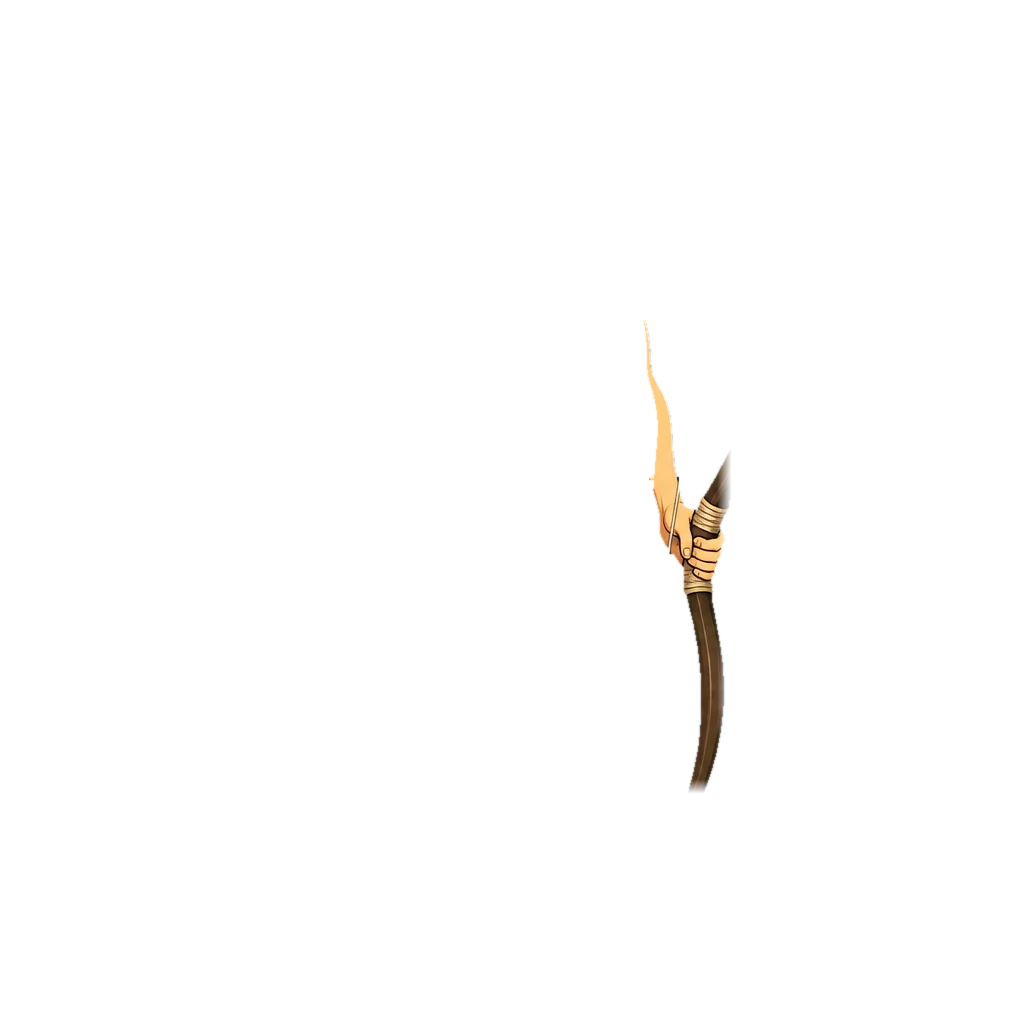
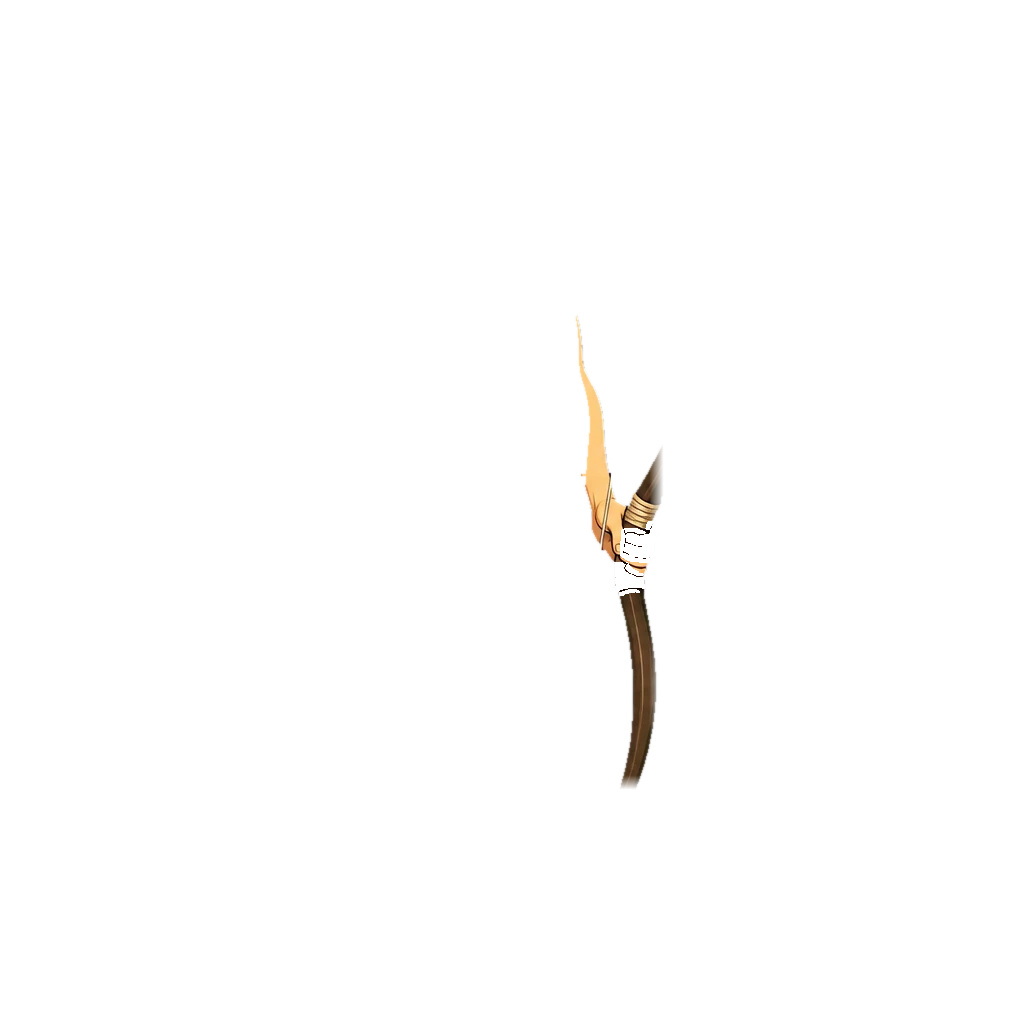
El arco tambien, y ya son las dieciocho
Rodrigo lo vio en el movil: "con la espada se ve bien pero con el arco
parece que tiene 2 manos". Era la ultima pieza que quedaba.

No se arreglaba porque el detector busca un puno COMPACTO y en el arco la
mano quedo partida en cuatro dedos sueltos de 209 a 328 px por la cuerda
y el vendaje. Con el umbral de fragmento en 300 se descartaban dos, y los
otros dos no llegaban al minimo conjunto. A 240 los junta: 914 px de
mano.

Comprobado que no toca ninguna otra pieza, comparando el puno detectado
de las dieciocho antes y despues: solo cambia el arco.

Queda un defecto menor y conviene decirlo: la mano del arco sale algo mas
palida que el brazo. Es una pieza de madera y ahi el recorte por color no
puede coger mas sin comerse la vara -78 % del bastón y 66 % del arco dan
"piel" por color-, asi que parte del dibujo se queda fuera de la capa
tenible. Se ve mucho menos que dos manos.

Y se anota en docs/PENDIENTE.md 4.4 la exploracion del pixel art, que
Rodrigo propuso y decidio no hacer: se probo entera sin gastar una sola
generacion y el hallazgo que la cierra es que las dos cosas que se querian
se piden a resoluciones opuestas -a 96-128 px los defectos se disuelven
pero el arma deja de leerse; a 256 las armas se leen y ya no esconde
nada-.

Changed region(s): [[0.5625, 0.3125, 0.7188, 0.7812]]

diff --git a/app/lib/pantallas/personaje/widgets/avatar_capas.dart b/app/lib/pantallas/personaje/widgets/avatar_capas.dart
@@ -216,28 +216,33 @@ class AvatarCapas extends StatelessWidget {
               ),
               _Tinte(ruta: Arte.pelo(clave), color: CatalogoAvatar.cabello(r.colorCabello), lado: tamano),
             ],
+            // La mano **izquierda**, antes del equipo: un escudo la tapa.
+            //
+            // Las dos manos no van al mismo sitio de la pila, y la diferencia
+            // no es un capricho: un arma se **agarra** —la mano tiene que ir
+            // encima— y un escudo se **embraza** —tapa el antebrazo entero, así
+            // que va él encima—. Con las dos arriba, el escudo salía con una
+            // mano suelta flotando en mitad de la madera. Lo introduje al poner
+            // la derecha sobre el arma y se vio componiendo las doce piezas de
+            // mano secundaria.
+            //
+            // Apagarla no vale como alternativa: está medido, y bajo la mitad de
+            // los escudos dejaría entre 658 y 1.817 px de hueco a la vista.
+            if (apilando && !_piezaConPuno(capas, clave, derecha: false))
+              ..._manoDelCuerpo(clave, derecha: false, tono: r.tonoPiel, lado: tamano),
             // Y lo que va por delante, en el orden que manda el Reino.
             if (apilando)
               for (final CapaAvatar capa in delante) _Capa(capa: capa, figura: clave, lado: tamano),
-            // Las manos, cada una con su piel teñida.
+            // La **derecha**, después: es la que agarra el arma.
             //
-            // Van **sobre** el equipo de mano, porque son ellas las que agarran,
-            // y se apagan cuando la pieza trae la suya. Ver [Arte.conPunoPropio]:
+            // Y se apaga cuando la pieza trae la suya. Ver [Arte.conPunoPropio]:
             // cada arma venía con un puño dibujado dentro y en pantalla salían
             // dos manos, que es como lo encontró el primer aprendiz que equipó
             // una espada. Ese puño ya agarra bien —se dibujó agarrando— así que
             // lo que se hace es sacarlo a su propia capa, teñirlo con el tono
             // elegido, y quitar de en medio la mano del cuerpo de ese lado.
-            if (apilando)
-              for (final bool derecha in <bool>[true, false])
-                if (!_piezaConPuno(capas, clave, derecha: derecha)) ...<Widget>[
-                  _CapaDelCuerpo(ruta: Arte.mano(clave, derecha: derecha), lado: tamano),
-                  _Tinte(
-                    ruta: Arte.manoPiel(clave, derecha: derecha),
-                    color: CatalogoAvatar.piel(r.tonoPiel),
-                    lado: tamano,
-                  ),
-                ],
+            if (apilando && !_piezaConPuno(capas, clave, derecha: true))
+              ..._manoDelCuerpo(clave, derecha: true, tono: r.tonoPiel, lado: tamano),
             // Y las manos que traen las propias piezas, teñidas igual que la del
             // cuerpo: son la misma mano del aprendiz, solo que dibujada ya
             // cerrada sobre el arma.
@@ -338,8 +343,21 @@ Widget colocadaSobreLaFigura({
           ..scaleByDouble(a.escalaTorso, 1, 1, 1),
         child: hijo,
       ),
+    // Cada mano lleva su propio par: no se desplazan juntas de una figura a
+    // otra, y en la femenina 003 van en sentidos opuestos. Ver [AjusteDeFigura].
+    //
+    // Los guantes cubren las dos, así que se les da el punto medio: es un
+    // compromiso, y se nota menos que acertar en una y fallar el doble en la
+    // otra. Lo bueno sería partirlos en dos capas el día que estorbe.
     TrazoDeCapa.mano => Transform.translate(
-        offset: Offset(a.manoDx * k, a.manoDy * k),
+        offset: switch (clave) {
+          'offhand' => Offset(a.zurdaDx * k, a.zurdaDy * k),
+          'gloves' => Offset(
+              (a.diestraDx + a.zurdaDx) / 2 * k,
+              (a.diestraDy + a.zurdaDy) / 2 * k,
+            ),
+          _ => Offset(a.diestraDx * k, a.diestraDy * k),
+        },
         child: hijo,
       ),
     TrazoDeCapa.ninguno => hijo,
@@ -903,6 +921,27 @@ class _PintorAvatar extends CustomPainter {
     return true;
   }
 }
+
+/// Una mano del cuerpo: el dibujo y su piel teñida con el tono elegido.
+///
+/// Las dos piezas van siempre juntas, y son dos y no una porque el tono lo
+/// elige el aprendiz: la piel es el mismo dibujo con los brillos llevados al
+/// blanco, y multiplicarla por el color devuelve ese color en la luz y su
+/// sombra en la sombra.
+List<Widget> _manoDelCuerpo(
+  String figura, {
+  required bool derecha,
+  required String tono,
+  required double lado,
+}) =>
+    <Widget>[
+      _CapaDelCuerpo(ruta: Arte.mano(figura, derecha: derecha), lado: lado),
+      _Tinte(
+        ruta: Arte.manoPiel(figura, derecha: derecha),
+        color: CatalogoAvatar.piel(tono),
+        lado: lado,
+      ),
+    ];
 
 /// ¿Lo que hay en esa mano trae su propia mano dibujada?
 ///

diff --git a/app/lib/design/arte.dart b/app/lib/design/arte.dart
@@ -227,6 +227,7 @@ abstract final class Arte {
   /// La emite el propio guion al terminar; no se escribe a mano.
   static const Map<String, Set<String>> conPunoPropio = <String, Set<String>>{
     'masculino': <String>{
+      'arco_bosque_antiguo_weapon',
       'arco_fresno_weapon',
       'baculo_maestria_ia_weapon',
       'baston_aprendiz_weapon',
@@ -278,16 +279,40 @@ abstract final class Arte {
   /// --dart` cada vez que cambie un cuerpo, y se pegan aquí. Un número tocado a
   /// ojo aquí es un número que ya no describe el arte.
   static const Map<String, AjusteDeFigura> _ajustes = <String, AjusteDeFigura>{
-    'base_femenino_001':
-        AjusteDeFigura(escalaTorso: 0.8596, torsoDx: 66.3, manoDx: -25, manoDy: 3),
+    'base_femenino_001': AjusteDeFigura(
+      escalaTorso: 0.8596,
+      torsoDx: 66.3,
+      diestraDx: -19,
+      diestraDy: -3,
+      zurdaDx: 14.3,
+      zurdaDy: 3.3,
+    ),
     'base_femenino_002': AjusteDeFigura(),
-    'base_femenino_003':
-        AjusteDeFigura(escalaTorso: 0.86, torsoDx: 70.5, manoDx: -24, manoDy: -15),
-    'base_masculino_001':
-        AjusteDeFigura(escalaTorso: 0.9032, torsoDx: 51.7, manoDx: 2, manoDy: 48),
+    'base_femenino_003': AjusteDeFigura(
+      escalaTorso: 0.86,
+      torsoDx: 70.5,
+      diestraDx: -19,
+      diestraDy: -27,
+      zurdaDx: 20.9,
+      zurdaDy: -20.6,
+    ),
+    'base_masculino_001': AjusteDeFigura(
+      escalaTorso: 0.9032,
+      torsoDx: 51.7,
+      diestraDx: 4,
+      diestraDy: -7,
+      zurdaDx: 4.8,
+      zurdaDy: 17.6,
+    ),
     'base_masculino_002': AjusteDeFigura(),
-    'base_masculino_003':
-        AjusteDeFigura(escalaTorso: 1.0991, torsoDx: -49.7, manoDx: 14, manoDy: -18),
+    'base_masculino_003': AjusteDeFigura(
+      escalaTorso: 1.0991,
+      torsoDx: -49.7,
+      diestraDx: 16,
+      diestraDy: -17,
+      zurdaDx: -12.1,
+      zurdaDy: -10.8,
+    ),
   };
 
   /// Número estable a partir del identificador de rostro (`face_02` -> 2).
@@ -538,8 +563,10 @@ class AjusteDeFigura {
   const AjusteDeFigura({
     this.escalaTorso = 1,
     this.torsoDx = 0,
-    this.manoDx = 0,
-    this.manoDy = 0,
+    this.diestraDx = 0,
+    this.diestraDy = 0,
+    this.zurdaDx = 0,
+    this.zurdaDy = 0,
   });
 
   /// Cuánto ensanchar una pieza que se ciñe al torso.
@@ -548,16 +575,42 @@ class AjusteDeFigura {
   /// Y cuánto recolocarla después, porque escalar mueve el centro.
   final double torsoDx;
 
-  /// Cuánto mover una pieza que se sostiene con la mano.
-  final double manoDx;
-  final double manoDy;
+  /// Cuánto mover una pieza según en qué mano vaya.
+  ///
+  /// **La diestra no apunta al centro de la mano, sino un poco por encima.** Es
+  /// la que sostiene el arma, y cuando la pieza trae su propio puño la mano del
+  /// cuerpo se apaga: entonces lo que se ve no es si el arma está centrada sino
+  /// si queda muñeca al aire. Apuntando al centroide quedaban 1.812 px
+  /// destapados en `base_masculino_001`; buscando el desplazamiento que menos
+  /// muñeca deja —a 3-9 px del centroide— bajan a 236. La zurda sí va al
+  /// centroide, porque su mano no se apaga nunca: la tapa el escudo.
+  ///
+  /// **Una por mano, y no una para las dos.** Las dos manos no se desplazan
+  /// juntas de una figura a otra: en `base_femenino_003` la derecha está 22 px
+  /// a la izquierda de la canónica y la izquierda 21 px a la **derecha**. Con un
+  /// solo par de números, a un escudo se le aplicaba el de la espada y se iba
+  /// 43 px en la dirección contraria: flotaba separado del cuerpo en vez de
+  /// apoyarse en el brazo. Se ve en `arte/diagnostico/ajustes.png`.
+  ///
+  /// «Diestra» y «zurda» son desde quien mira, igual que en el taller: la
+  /// diestra es la mano que aparece a la derecha de la imagen, la que lleva el
+  /// arma.
+  final double diestraDx;
+  final double diestraDy;
+  final double zurdaDx;
+  final double zurdaDy;
 
   /// ¿Esta figura necesita que se le ajuste algo?
   ///
   /// Las dos canónicas no, y saberlo evita envolver sus capas en una
   /// transformación que no hace nada.
   bool get esNeutro =>
-      escalaTorso == 1 && torsoDx == 0 && manoDx == 0 && manoDy == 0;
+      escalaTorso == 1 &&
+      torsoDx == 0 &&
+      diestraDx == 0 &&
+      diestraDy == 0 &&
+      zurdaDx == 0 &&
+      zurdaDy == 0;
 }
 
 /// Qué transformación le toca a cada capa de la pila de dibujado.

diff --git a/app/test/avatar_apilado_test.dart b/app/test/avatar_apilado_test.dart
@@ -231,14 +231,15 @@ void main() {
         'assets/arte/capas/cuerpos/base_masculino_001_sin_manos.webp',
         'assets/arte/capas/cuerpos/base_masculino_001_piel_sin_manos.webp',
         'assets/arte/capas/cuerpos/base_masculino_001_pelo.webp',
-        'assets/arte/capas/masculino/b.webp',
-        'assets/arte/capas/masculino/c.webp',
-        // Las manos van las últimas, sobre el equipo: son ellas las que agarran
-        // el arma. Debajo se vería el puño que la pieza traía dibujado.
-        'assets/arte/capas/cuerpos/base_masculino_001_hand_right.webp',
-        'assets/arte/capas/cuerpos/base_masculino_001_piel_hand_right.webp',
+        // La izquierda va ANTES del equipo: un escudo la tapa, y con ella
+        // encima salía una mano flotando en mitad de la madera.
         'assets/arte/capas/cuerpos/base_masculino_001_hand_left.webp',
         'assets/arte/capas/cuerpos/base_masculino_001_piel_hand_left.webp',
+        'assets/arte/capas/masculino/b.webp',
+        'assets/arte/capas/masculino/c.webp',
+        // Y la derecha DESPUÉS: es la que agarra el arma.
+        'assets/arte/capas/cuerpos/base_masculino_001_hand_right.webp',
+        'assets/arte/capas/cuerpos/base_masculino_001_piel_hand_right.webp',
       ]);
     });
   });
@@ -263,11 +264,11 @@ void main() {
         'assets/arte/capas/cuerpos/base_masculino_001_sin_manos.webp',
         'assets/arte/capas/cuerpos/base_masculino_001_piel_sin_manos.webp',
         'assets/arte/capas/cuerpos/base_masculino_001_pelo.webp',
+        'assets/arte/capas/cuerpos/base_masculino_001_hand_left.webp',
+        'assets/arte/capas/cuerpos/base_masculino_001_piel_hand_left.webp',
         'assets/arte/capas/masculino/delante.webp',
         'assets/arte/capas/cuerpos/base_masculino_001_hand_right.webp',
         'assets/arte/capas/cuerpos/base_masculino_001_piel_hand_right.webp',
-        'assets/arte/capas/cuerpos/base_masculino_001_hand_left.webp',
-        'assets/arte/capas/cuerpos/base_masculino_001_piel_hand_left.webp',
       ]);
     });
   });

diff --git a/app/test/manos_del_avatar_test.dart b/app/test/manos_del_avatar_test.dart
@@ -318,4 +318,34 @@ void main() {
     expect(arma, isNot(Offset.zero), reason: 'esta figura sí se ajusta');
     expect(puno, arma, reason: 'el puño tiene que ir donde va su arma');
   });
+
+  testWidgets('la izquierda va DEBAJO del escudo, y la derecha encima del arma',
+      (WidgetTester tester) async {
+    // Las dos manos no van al mismo sitio de la pila, y la diferencia no es un
+    // capricho: un arma se agarra —la mano encima— y un escudo se embraza —el
+    // escudo encima, que tapa el antebrazo entero—.
+    //
+    // Con las dos arriba, los doce escudos salían con una mano suelta flotando
+    // en mitad de la madera. Lo introduje al poner la derecha sobre el arma, y
+    // no lo vio ninguna prueba porque las de orden solo montaban capas de
+    // adorno. Apagarla tampoco valía: está medido, y bajo la mitad de los
+    // escudos dejaría entre 658 y 1.817 px de hueco a la vista.
+    await _pintar(tester, <CapaAvatar>[
+      _capa('offhand', RanuraItem.secundaria, 80),
+      _capa('weapon', RanuraItem.arma, 130),
+    ]);
+    final List<String> rutas = _pintadas(tester);
+
+    expect(rutas, containsAll(<String>[_pieza('offhand'), _pieza('weapon')]));
+    expect(
+      rutas.indexOf(Arte.mano(figura, derecha: false)),
+      lessThan(rutas.indexOf(_pieza('offhand'))),
+      reason: 'el escudo tiene que tapar la mano izquierda',
+    );
+    expect(
+      rutas.indexOf(Arte.mano(figura, derecha: true)),
+      greaterThan(rutas.indexOf(_pieza('weapon'))),
+      reason: 'la derecha tiene que agarrar el arma',
+    );
+  });
 }

diff --git a/app/test/ajuste_de_figura_test.dart b/app/test/ajuste_de_figura_test.dart
@@ -50,10 +50,29 @@ void main() {
         final AjusteDeFigura a = Arte.ajuste(figura);
         expect(a.escalaTorso, inInclusiveRange(0.7, 1.4), reason: figura);
         expect(a.torsoDx.abs(), lessThan(200), reason: figura);
-        expect(a.manoDx.abs(), lessThan(120), reason: figura);
-        expect(a.manoDy.abs(), lessThan(120), reason: figura);
+        for (final double v in <double>[a.diestraDx, a.diestraDy, a.zurdaDx, a.zurdaDy]) {
+          expect(v.abs(), lessThan(120), reason: figura);
+        }
       }
     });
+  });
+
+  test('cada mano lleva su propio par, porque no se mueven juntas', () {
+    // En `base_femenino_003` la derecha está 22 px a la izquierda de la
+    // canónica y la izquierda 21 px a la **derecha**. Con un solo par de
+    // números —como estaba— a un escudo se le aplicaba el de la espada y se iba
+    // 43 px en la dirección contraria: flotaba separado del cuerpo.
+    final AjusteDeFigura a = Arte.ajuste('base_femenino_003');
+    expect(a.diestraDx, lessThan(0));
+    expect(a.zurdaDx, greaterThan(0));
+
+    // Y en alguna figura tienen que discrepar de verdad, o la separación no
+    // estaría arreglando nada.
+    final double mayorDiscrepancia = Arte.personajes
+        .map((String f) => Arte.ajuste(f))
+        .map((AjusteDeFigura x) => (x.diestraDx - x.zurdaDx).abs())
+        .reduce((double a, double b) => a > b ? a : b);
+    expect(mayorDiscrepancia, greaterThan(25));
   });
 
   group('qué transformación lleva cada capa', () {

diff --git a/scripts/quitar_punos.py b/scripts/quitar_punos.py
@@ -131,7 +131,13 @@ ANCHO_MINIMO = 35
 #:
 #: Se admiten piezas menos compactas y más pequeñas, pero solo si juntas vuelven
 #: a formar algo con forma de puño y están pegadas entre sí.
-FRAGMENTO_MINIMO = 300
+#: Doscientos cuarenta, y el número tiene dueño: `arco_bosque_antiguo`
+#: masculino. Su mano quedó partida en cuatro dedos de 209 a 328 px por la
+#: cuerda y el vendaje del arco, así que con el umbral en 300 se descartaban dos
+#: y los otros dos no llegaban al mínimo conjunto. Era la última pieza de las
+#: dieciocho que seguía enseñando dos manos. Bajarlo a 240 no toca ninguna otra:
+#: se comprobó comparando el puño de las dieciocho antes y después.
+FRAGMENTO_MINIMO = 240
 FRAGMENTO_ALARGAMIENTO = 2.2
 FRAGMENTO_DISTANCIA = 60
 

diff --git a/docs/PENDIENTE.md b/docs/PENDIENTE.md
@@ -201,6 +201,34 @@ femenino (no se les encuentra puño) y `espada_entrenamiento` masculina (dejarí
 Las hojas de revisión están en `arte/diagnostico/` (ignorado por git; se
 regeneran con los guiones).
 
+
+### 4.4 Píxel art — explorado y descartado
+
+Rodrigo lo propuso como forma de que los defectos del arte se notaran menos, y
+se probó en serio sin gastar una sola generación: conversor con paleta corta,
+sombreado plano, contorno de 1 px y alfa dura, y un boceto del Vestidor entero
+con la paleta real de la aplicación.
+
+**Decisión: no se cambia. Se mantiene el arte actual.**
+
+Lo que se aprendió, por si vuelve a plantearse:
+
+- **Las dos cosas que se querían se piden a resoluciones opuestas.** A 96-128 px
+  los defectos se disuelven pero la `espada_corta_acero` se queda en una hilacha
+  de dos píxeles: deja de verse lo que el aprendiz compra. A 256 px las armas se
+  leen y el estilo funciona, pero ya no esconde nada.
+- **El cuerpo y los iconos de ítem convierten solos y bien.** Las armas finas y
+  los escudos no: habría que **redibujarlos** a escala de píxel, y los escudos
+  pierden su blasón a cualquier resolución.
+- Como razón, además, ya no aplicaba: quedaba **una** pieza de dieciocho con dos
+  manos, y se arregló por otra vía.
+
+Si algún día se retoma, que sea como **dirección de arte** y no como parche: el
+premio de verdad es que a escala de píxel se controla cada píxel y se acaban los
+halos, los flecos de extracción y las manos descuadradas. Los bocetos están en
+`arte/diagnostico/boceto_pixel2.png` y `pixel_resoluciones.png`.
+
+
 ---
 
 ## 5. Lo que depende de Rodrigo, no del código
